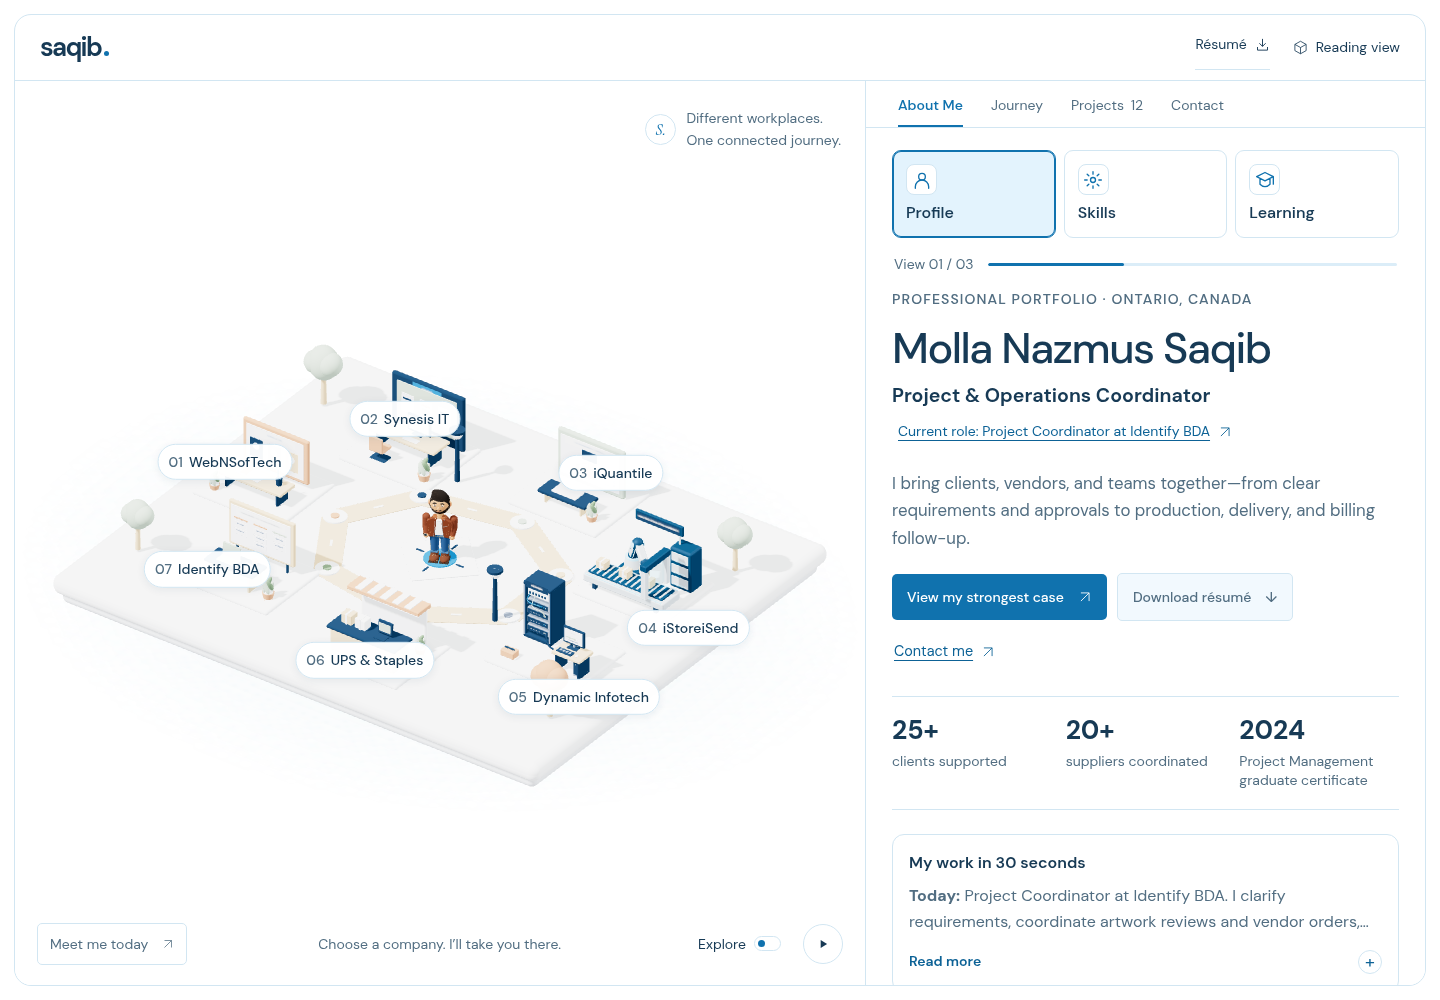
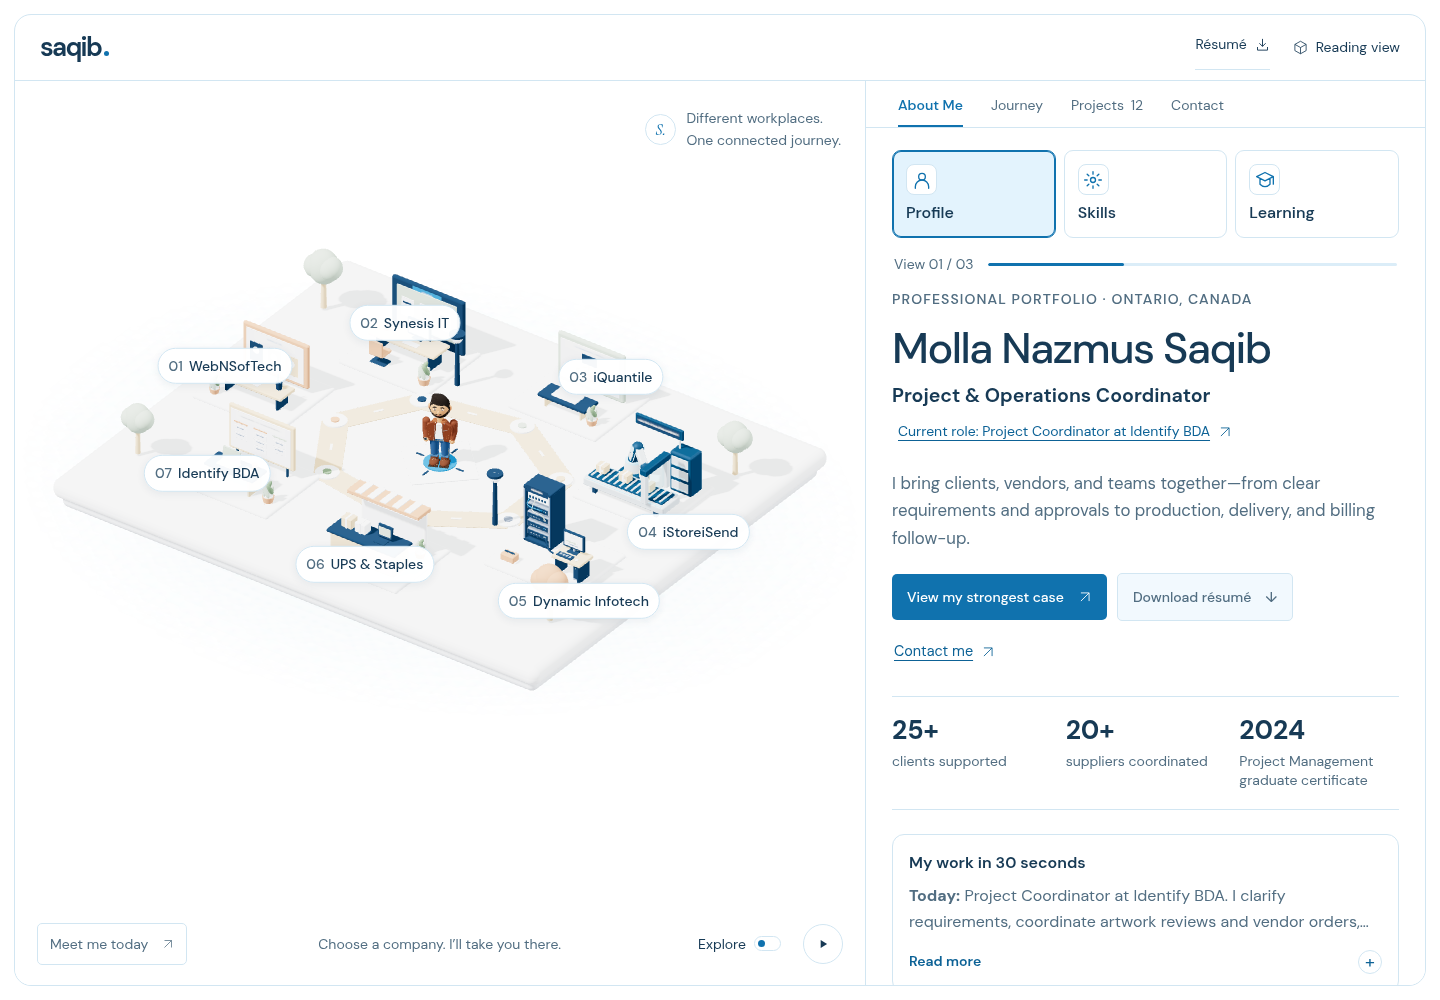
Raise the career map into available desktop space

diff --git a/src/world.js b/src/world.js
@@ -532,6 +532,24 @@ export function createWorld({ container, onSelect = () => {}, onReady = () => {}
       }
     }
   }
+  // Measure the visible model's top so spare desktop headroom can be used
+  // without cutting off its trees, equipment, or character.
+  let modelTop = -Infinity;
+  const viewMatrix = new THREE.Matrix4(), viewCorner = new THREE.Vector3();
+  world.traverse(object => {
+    if (!object.isMesh) return;
+    if (!object.geometry.boundingBox) object.geometry.computeBoundingBox();
+    const bounds = object.geometry.boundingBox;
+    viewMatrix.multiplyMatrices(camera.matrixWorldInverse, object.matrixWorld);
+    for (const x of [bounds.min.x, bounds.max.x]) {
+      for (const y of [bounds.min.y, bounds.max.y]) {
+        for (const z of [bounds.min.z, bounds.max.z]) {
+          viewCorner.set(x, y, z).applyMatrix4(viewMatrix);
+          modelTop = Math.max(modelTop, viewCorner.y);
+        }
+      }
+    }
+  });
   function updateLabels() {
     projected.set(0, 0.23, 0); world.localToWorld(projected); projected.project(camera);
     homeTarget.style.left = `${(projected.x * 0.5 + 0.5) * size.width}px`;
@@ -567,8 +585,14 @@ export function createWorld({ container, onSelect = () => {}, onReady = () => {}
     renderer.setSize(size.width, size.height, false);
     const aspect = size.width / size.height;
     const vertical = Math.max(frameExtent.y + 0.6, (frameExtent.x + 0.8) / aspect);
+    const pixelsPerUnit = size.height / (2 * vertical);
+    const headroom = (vertical - modelTop) * pixelsPerUnit;
+    const liftPixels = window.innerWidth > 860
+      ? Math.min(96, size.height * 0.12, Math.max(0, headroom - 88))
+      : 0;
+    const lift = liftPixels / pixelsPerUnit;
     camera.left = -vertical * aspect; camera.right = vertical * aspect;
-    camera.top = vertical; camera.bottom = -vertical;
+    camera.top = vertical - lift; camera.bottom = -vertical - lift;
     camera.updateProjectionMatrix();
     updateLabels(); renderer.render(scene, camera);
   }
